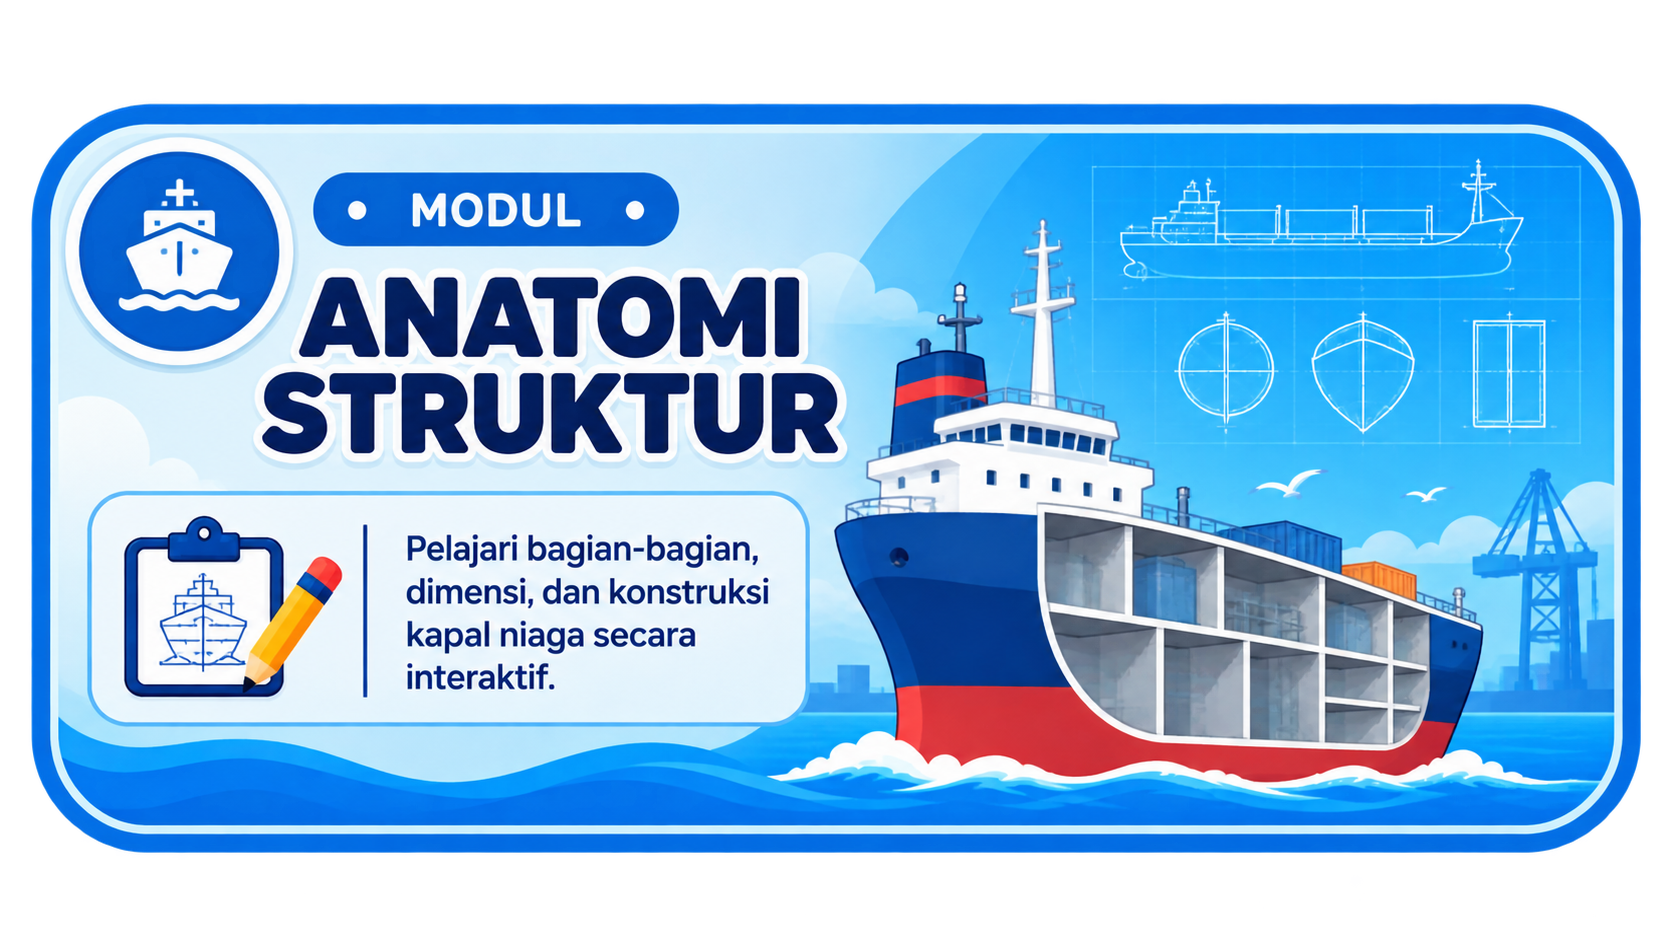
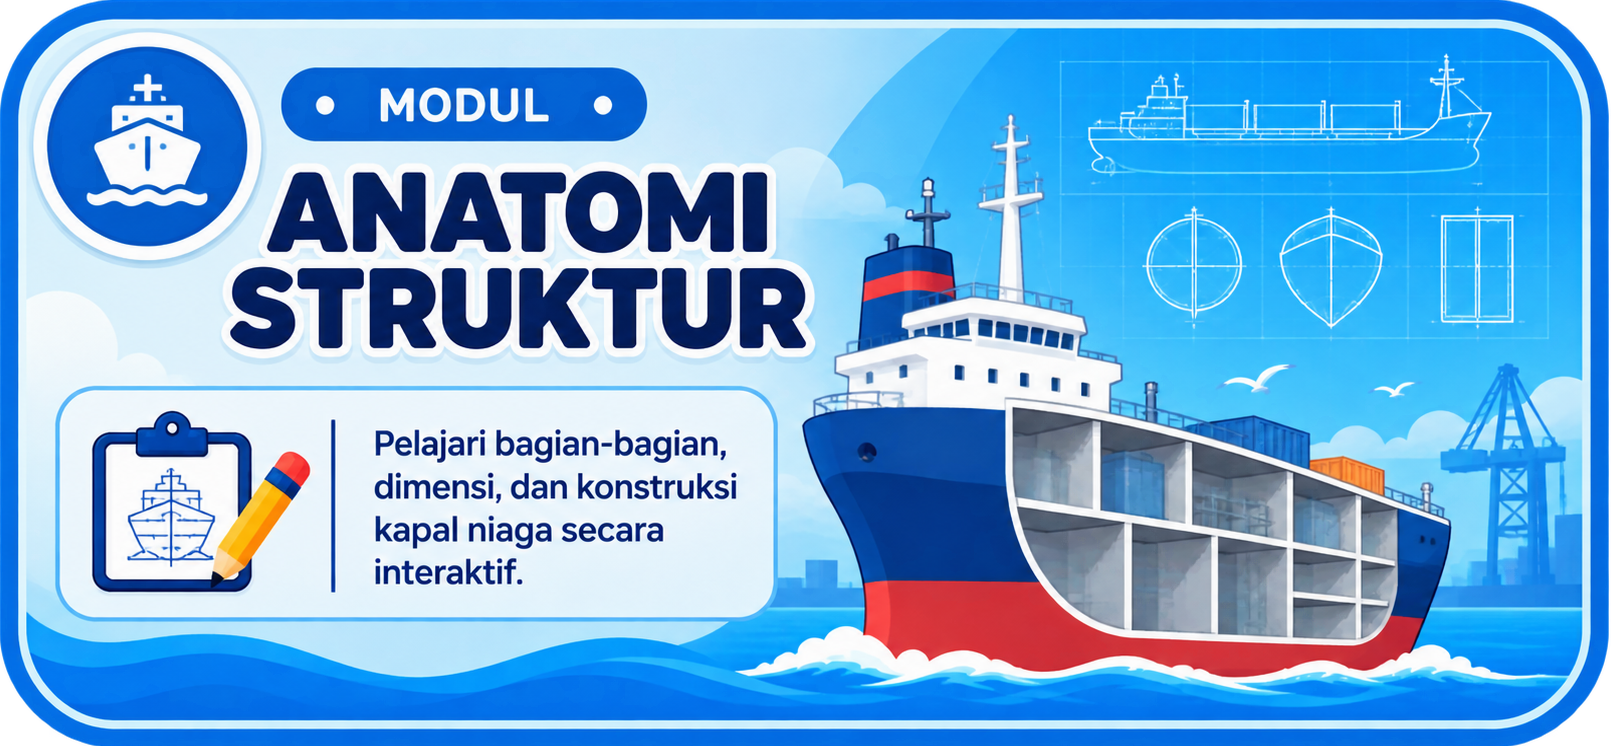
[update, add] - update MainMenu card assets for the refreshed module cards - update locked-card overlay and padlock rendering to track the   displayed card bounds during layout and hover animations - add card selamat datang

diff --git a/src/game/scenes/MainMenu/MainMenu.ts b/src/game/scenes/MainMenu/MainMenu.ts
@@ -1,14 +1,14 @@
 import { GameObjects, Scale, Scene } from "phaser";
-import { BgmToggleButton } from '../../../component/Button/BgmToggleButton';
-import { ButtonImage } from '../../../component/Button/ButtonImage';
-import { ExitButton } from '../../../component/Button/ExitButton';
-import { initBgm, isBgmEnabled, toggleBgm } from '../../BgmManager';
-import { EventBus } from '../../EventBus';
-import { SFX_KEYS, playSfx } from '../../SfxManager';
-import { isModuleUnlocked, ModuleId } from '../../ModuleProgress';
-import { CharacterPanel } from './CharacterPanel';
-import { MenuCard } from './MenuCard';
-import { ModalExit } from './ModalExit';
+import { BgmToggleButton } from "../../../component/Button/BgmToggleButton";
+import { ButtonImage } from "../../../component/Button/ButtonImage";
+import { ExitButton } from "../../../component/Button/ExitButton";
+import { initBgm, isBgmEnabled, toggleBgm } from "../../BgmManager";
+import { EventBus } from "../../EventBus";
+import { SFX_KEYS, playSfx } from "../../SfxManager";
+import { isModuleUnlocked, ModuleId } from "../../ModuleProgress";
+import { CharacterPanel } from "./CharacterPanel";
+import { MenuCard } from "./MenuCard";
+import { ModalExit } from "./ModalExit";
 
 const MENU_MODULES: ModuleId[] = [
     "anatomi-struktur",
@@ -19,6 +19,7 @@ const MENU_MODULES: ModuleId[] = [
 export class MainMenu extends Scene {
     private background!: GameObjects.Image;
     private logo!: GameObjects.Image;
+    private welcomeCard!: GameObjects.Graphics;
     private welcomeTitle!: GameObjects.Text;
     private welcomeSubtitle!: GameObjects.Text;
 
@@ -32,6 +33,12 @@ export class MainMenu extends Scene {
     private bottomButtons: ButtonImage[] = [];
     private hasPlayedIntro = false;
 
+    // The logo's layout position (updated on every resize) plus a small
+    // side-to-side sway offset animated continuously on top of it.
+    private logoBaseX = 0;
+    private logoBaseY = 0;
+    private logoSwayOffset = 0;
+
     constructor() {
         super("MainMenu");
     }
@@ -40,6 +47,8 @@ export class MainMenu extends Scene {
         this.background = this.add.image(0, 0, "background.home");
 
         this.logo = this.add.image(0, 0, "logo");
+
+        this.welcomeCard = this.add.graphics();
 
         this.welcomeTitle = this.add
             .text(0, 0, "Selamat Datang, Taruna!", {
@@ -134,7 +143,9 @@ export class MainMenu extends Scene {
             playSfx(this, SFX_KEYS.click);
             playSfx(this, SFX_KEYS.indianSong);
         });
-        this.bottomButtons[1].on("pointerdown", () => playSfx(this, SFX_KEYS.click));
+        this.bottomButtons[1].on("pointerdown", () =>
+            playSfx(this, SFX_KEYS.click),
+        );
 
         this.exitModal = new ModalExit(this, () =>
             this.scene.start("Preloader"),
@@ -144,6 +155,7 @@ export class MainMenu extends Scene {
         this.layout(this.scale.width, this.scale.height);
         this.scale.on(Scale.Events.RESIZE, this.handleResize, this);
 
+        this.startLogoSwayAnimation();
         this.playIntroAnimation();
 
         EventBus.emit("current-scene-ready", this);
@@ -157,6 +169,24 @@ export class MainMenu extends Scene {
 
     private handleResize(gameSize: Phaser.Structs.Size) {
         this.layout(gameSize.width, gameSize.height);
+    }
+
+    private updateLogoPosition() {
+        this.logo.setPosition(this.logoBaseX + this.logoSwayOffset, this.logoBaseY);
+    }
+
+    private startLogoSwayAnimation() {
+        const swayAmplitude = 16;
+
+        this.tweens.add({
+            targets: this,
+            logoSwayOffset: { from: -swayAmplitude, to: swayAmplitude },
+            duration: 2400,
+            yoyo: true,
+            repeat: -1,
+            ease: "Sine.easeInOut",
+            onUpdate: () => this.updateLogoPosition(),
+        });
     }
 
     private refreshModuleLocks() {
@@ -179,7 +209,7 @@ export class MainMenu extends Scene {
                 scaleX: number;
                 scaleY: number;
             }
-        > = [this.welcomeTitle, this.welcomeSubtitle];
+        > = [this.welcomeCard, this.welcomeTitle, this.welcomeSubtitle];
 
         animatedItems.forEach((item, index) => {
             item.alpha = 0;
@@ -222,48 +252,89 @@ export class MainMenu extends Scene {
         // proportioned to match each other exactly.
         const headerButtonHeight = Math.max(52, Math.min(68, height * 0.04));
 
+        const cardsZoneLeft = Math.max(headerPaddingX, width * 0.01);
+        // Reference zone used only to size the "normal" card grid before the
+        // 1.2x enlargement below — the actual right edge is derived from the
+        // final (bigger) card block further down, so it never overlaps the
+        // character column.
+        const cardsZoneWidthRef = width * 0.64 - cardsZoneLeft;
+
+        // Left column stacks top-to-bottom: logo, then the welcome card
+        // directly beneath it (same left edge), then the menu grid — matching
+        // the sketch layout instead of floating the welcome text beside the logo.
+        const logoMaxWidth = Math.min(width * 0.5, 660);
+        const logoScale = logoMaxWidth / this.logo.width;
+        const logoHeight = this.logo.height * logoScale;
+        const logoTop = topEdgePaddingY;
+
+        const welcomeCardGap = Math.max(10, height * 0.015);
+        const welcomeCardTop = logoTop + logoHeight + welcomeCardGap;
+        // Just an estimate for reserving vertical space — the welcome card is
+        // actually sized to hug its text further down, once font sizes are known.
+        // Kept slightly generous (rather than pixel-exact) since the margin
+        // below it also has to absorb the menu cards' hover pop-out.
+        const welcomeCardEstimatedHeight = Math.max(80, height * 0.09);
+
         // Cards (and the character column) are sized to fit the vertical band
-        // that's actually free — below the welcome text, above the bottom bar —
-        // rather than a flat % of window height, so shrinking the welcome text
+        // that's actually free — below the welcome card, above the bottom bar —
+        // rather than a flat % of window height, so shrinking the welcome card
         // directly reclaims room for the content below it.
-        const contentTop = topEdgePaddingY + headerButtonHeight + Math.max(16, height * 0.02);
-        const welcomeTitleY = contentTop + 60;
-        const welcomeSubtitleY = contentTop + 90;
         const bottomBarHeight = Math.max(45, height * 0.2);
         const bottomBarTopY = height - 60 - bottomBarHeight / 2;
 
-        const bandTop = welcomeSubtitleY + 60;
+        // Extra breathing room so a card's hover pop-out (scales up and lifts
+        // slightly) doesn't collide with the welcome card above it.
+        const welcomeCardToGridGap = Math.max(34, height * 0.045);
+        const bandTop =
+            welcomeCardTop + welcomeCardEstimatedHeight + welcomeCardToGridGap;
         const bandBottom = bottomBarTopY - 28;
         const availableBandHeight = Math.max(220, bandBottom - bandTop);
 
-        const cardsZoneLeft = Math.max(headerPaddingX, width * 0.03);
-        const cardsZoneRight = width * 0.62;
-        const cardsZoneWidth = cardsZoneRight - cardsZoneLeft;
-        const cardGapX = Math.max(20, width * 0.014);
+        const cardGapX = Math.max(22, width * 0.014);
         const cardGapY = Math.max(18, height * 0.02);
-        const cardAspect = 9 / 16; // 16:9 artwork ratio expressed as height / width
+        const cardAspect = 9 / 20;
         const gridColumns = 2;
         const gridRows = Math.ceil(this.menuCards.length / gridColumns);
 
-        let cardWidth = (cardsZoneWidth - cardGapX * (gridColumns - 1)) / gridColumns;
+        const targetCardWidth = Math.min(
+            460,
+            (cardsZoneWidthRef - cardGapX * (gridColumns - 1)) / gridColumns,
+        );
+        let cardWidth = targetCardWidth;
         let cardHeight = cardWidth * cardAspect;
+
         const maxGridHeight =
             (availableBandHeight - cardGapY * (gridRows - 1)) / gridRows;
-
         if (cardHeight > maxGridHeight) {
             cardHeight = maxGridHeight;
             cardWidth = cardHeight / cardAspect;
         }
 
-        const cardScale = cardWidth / 420;
-        const cardsBlockWidth = cardWidth * gridColumns + cardGapX * (gridColumns - 1);
-        const cardsBlockHeight = cardHeight * gridRows + cardGapY * (gridRows - 1);
-        const cardsBlockLeft = cardsZoneLeft + (cardsZoneWidth - cardsBlockWidth) / 2;
+        // Menu cards enlarged ~1.2x, then re-clamped so the bigger cards still
+        // fit the vertical band above the bottom bar.
+        const cardSizeBoost = 1.2;
+        cardWidth *= cardSizeBoost;
+        cardHeight *= cardSizeBoost;
+        if (cardHeight > maxGridHeight) {
+            cardHeight = maxGridHeight;
+            cardWidth = cardHeight / cardAspect;
+        }
+
+        const cardScale = cardWidth / 460;
+        const cardsBlockWidth =
+            cardWidth * gridColumns + cardGapX * (gridColumns - 1);
+        const cardsBlockHeight =
+            cardHeight * gridRows + cardGapY * (gridRows - 1);
+        const cardsBlockLeft =
+            cardsZoneLeft +
+            Math.max(0, (cardsZoneWidthRef - cardsBlockWidth) / 2);
         const cardsBlockCenterX = cardsBlockLeft + cardsBlockWidth / 2;
         const cardsBlockTop = bandTop;
 
         const rightColumnMargin = 15;
-        const rightColumnLeft = cardsZoneRight + Math.max(16, width * 0.015);
+        const rightColumnLeft =
+            Math.max(width * 0.64, cardsBlockLeft + cardsBlockWidth) +
+            Math.max(16, width * 0.015);
         const rightColumnWidth = width - rightColumnLeft - rightColumnMargin;
         const rightColumnCenterX = rightColumnLeft + rightColumnWidth / 2;
 
@@ -274,7 +345,10 @@ export class MainMenu extends Scene {
         let currentRightX = width - topEdgePaddingX;
 
         this.exitButton.setSize(headerButtonHeight);
-        this.exitButton.setPosition(currentRightX - headerButtonHeight / 2, headerButtonCenterY);
+        this.exitButton.setPosition(
+            currentRightX - headerButtonHeight / 2,
+            headerButtonCenterY,
+        );
         currentRightX -= headerButtonHeight;
 
         const bgmButtonGap = Math.max(10, width * 0.008);
@@ -285,35 +359,91 @@ export class MainMenu extends Scene {
             headerButtonCenterY,
         );
 
-        this.welcomeTitle.setPosition(cardsBlockCenterX, welcomeTitleY);
-        this.welcomeTitle.setFontSize(Math.max(26, 36 * cardScale));
+        // Centered over the menu grid's width, like the welcome card below it.
+        this.logoBaseX = cardsBlockCenterX;
+        this.logoBaseY = logoTop + logoHeight / 2;
+        this.updateLogoPosition();
+        this.logo.setDisplaySize(logoMaxWidth, logoHeight);
 
-        this.welcomeSubtitle.setPosition(cardsBlockCenterX, welcomeSubtitleY);
-        this.welcomeSubtitle.setFontSize(Math.max(15, 19 * cardScale));
-        this.welcomeSubtitle.setWordWrapWidth(cardsBlockWidth * 0.94);
+        // Size fonts first so the card can shrink-wrap to the actual text
+        // extent instead of a fixed width/height.
+        this.welcomeTitle.setFontSize(Math.max(20, 26 * cardScale));
+        this.welcomeSubtitle.setFontSize(Math.max(13, 15 * cardScale));
+        this.welcomeSubtitle.setWordWrapWidth(0);
+
+        const welcomeCardPaddingX = Math.max(20, 22 * cardScale);
+        const welcomeCardPaddingY = Math.max(14, 16 * cardScale);
+        const welcomeTextGap = Math.max(6, 8 * cardScale);
+        const welcomeCardRadius = 18;
+
+        const welcomeContentWidth = Math.max(
+            this.welcomeTitle.width,
+            this.welcomeSubtitle.width,
+        );
+        // Just wide enough for the text, but never wider than the menu grid
+        // it's centered over.
+        const welcomeCardWidth = Math.min(
+            welcomeContentWidth + welcomeCardPaddingX * 2,
+            cardsBlockWidth,
+        );
+        const welcomeCardHeight =
+            welcomeCardPaddingY * 2 +
+            this.welcomeTitle.height +
+            welcomeTextGap +
+            this.welcomeSubtitle.height;
+        const welcomeCardX = cardsBlockCenterX - welcomeCardWidth / 2;
+
+        this.welcomeCard.clear();
+        this.welcomeCard.fillStyle(0xffffff, 0.92);
+        this.welcomeCard.fillRoundedRect(
+            welcomeCardX,
+            welcomeCardTop,
+            welcomeCardWidth,
+            welcomeCardHeight,
+            welcomeCardRadius,
+        );
+        this.welcomeCard.lineStyle(2, 0x2f68d8, 0.9);
+        this.welcomeCard.strokeRoundedRect(
+            welcomeCardX,
+            welcomeCardTop,
+            welcomeCardWidth,
+            welcomeCardHeight,
+            welcomeCardRadius,
+        );
+
+        const welcomeTextX = welcomeCardX + welcomeCardPaddingX;
+
+        this.welcomeTitle.setPosition(
+            welcomeTextX,
+            welcomeCardTop + welcomeCardPaddingY + this.welcomeTitle.height / 2,
+        );
+
+        this.welcomeSubtitle.setPosition(
+            welcomeTextX,
+            welcomeCardTop +
+                welcomeCardPaddingY +
+                this.welcomeTitle.height +
+                welcomeTextGap +
+                this.welcomeSubtitle.height / 2,
+        );
 
         this.menuCards.forEach((card, index) => {
             const column = index % gridColumns;
             const row = Math.floor(index / gridColumns);
-            const cardX = cardsBlockLeft + cardWidth / 2 + column * (cardWidth + cardGapX);
-            const cardY = cardsBlockTop + cardHeight / 2 + row * (cardHeight + cardGapY);
+            const cardX =
+                cardsBlockLeft +
+                cardWidth / 2 +
+                column * (cardWidth + cardGapX);
+            const cardY =
+                cardsBlockTop + cardHeight / 2 + row * (cardHeight + cardGapY);
             card.layout(cardX, cardY, cardWidth, cardHeight);
         });
 
-        const logoMaxWidth = Math.min(width * 0.42, 560);
-        const logoScale = logoMaxWidth / this.logo.width;
-        const logoHeight = this.logo.height * logoScale;
-        const logoCenterX = cardsZoneLeft + logoMaxWidth / 2;
-        const logoCenterY = topEdgePaddingY + logoHeight / 2 + Math.max(8, height * 0.01);
-
-        this.logo.setPosition(logoCenterX, logoCenterY);
-        this.logo.setDisplaySize(logoMaxWidth, logoHeight);
-
         this.characterPanel.layout(
-            rightColumnCenterX,
-            cardsBlockTop,
-            cardsBlockHeight,
-            rightColumnWidth - rightColumnMargin,
+            rightColumnCenterX - 150,
+            logoTop + 130,
+            cardsBlockTop + cardsBlockHeight - logoTop - 160,
+            rightColumnWidth - rightColumnMargin - 160,
         );
 
         this.bottomInfoBar.setPosition(width * 0.47, height - 60);

diff --git a/src/game/scenes/MainMenu/MenuCard.ts b/src/game/scenes/MainMenu/MenuCard.ts
@@ -112,9 +112,10 @@ export class MenuCard {
 
         const left = x - width / 2;
         const top = y - height / 2;
+        const overlayRadius = 36;
 
         this.lockOverlay.fillStyle(0x000000, 0.2);
-        this.lockOverlay.fillRect(left, top, width, height);
+        this.lockOverlay.fillRoundedRect(left, top, width, height, overlayRadius);
 
         const iconCenterX = x;
         const iconCenterY = y;
